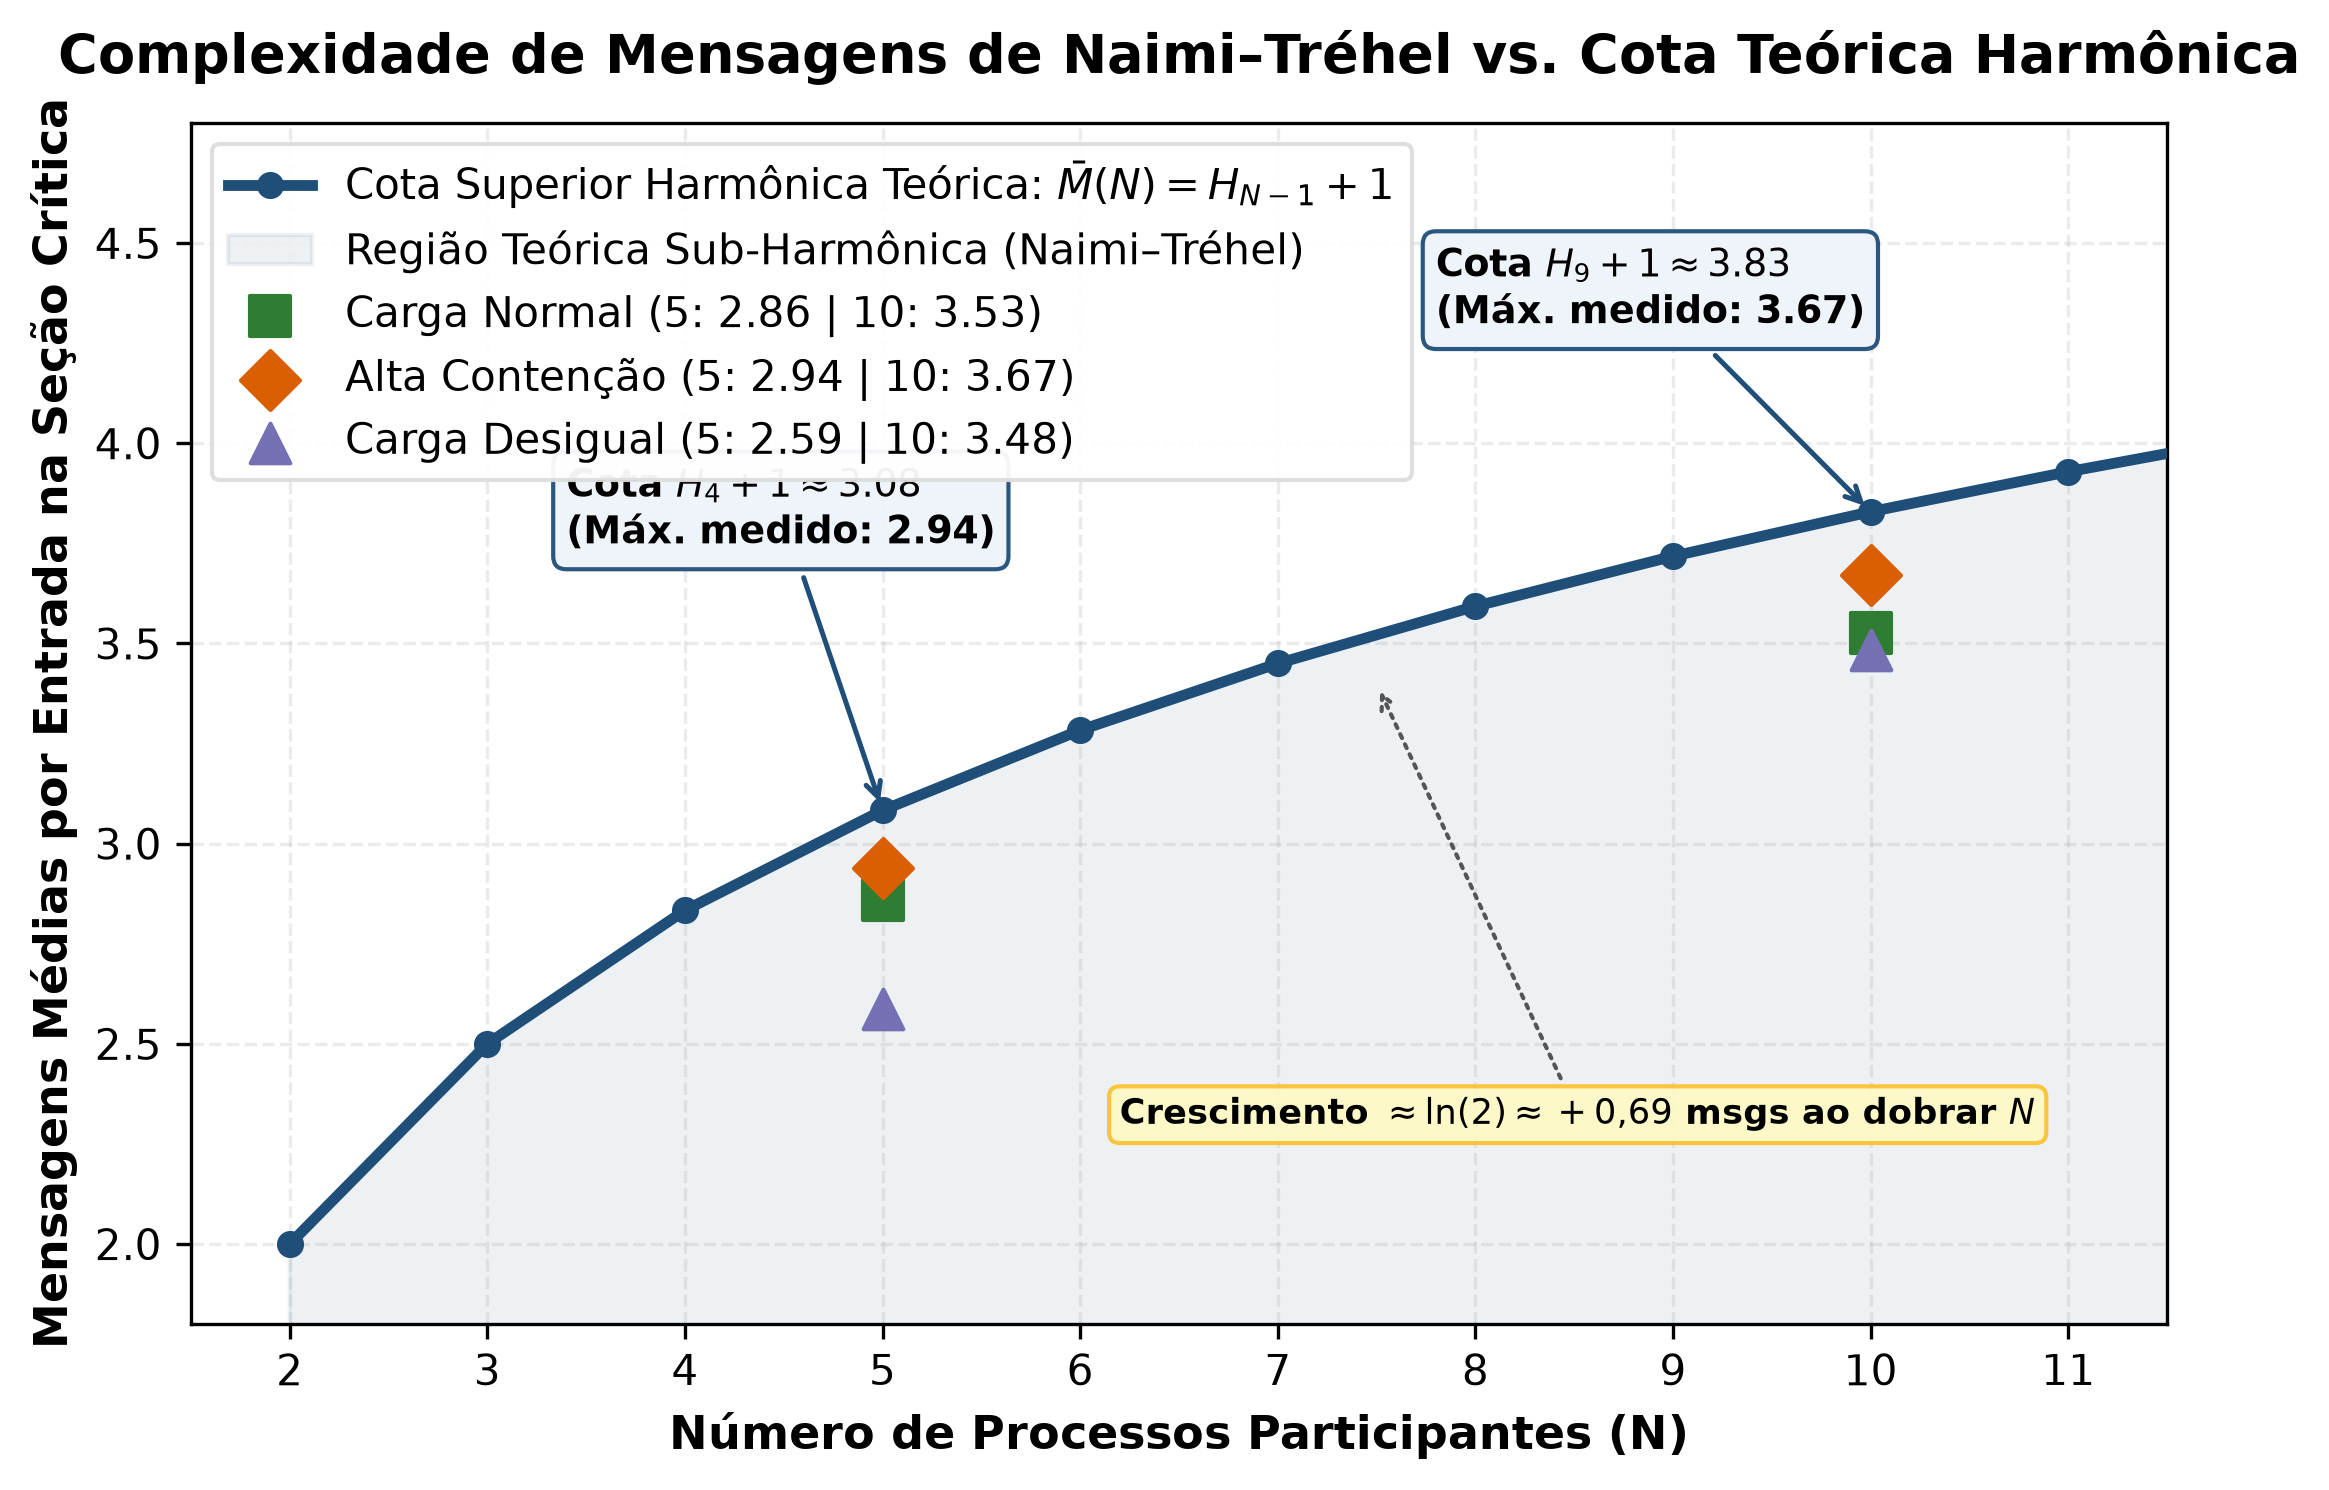
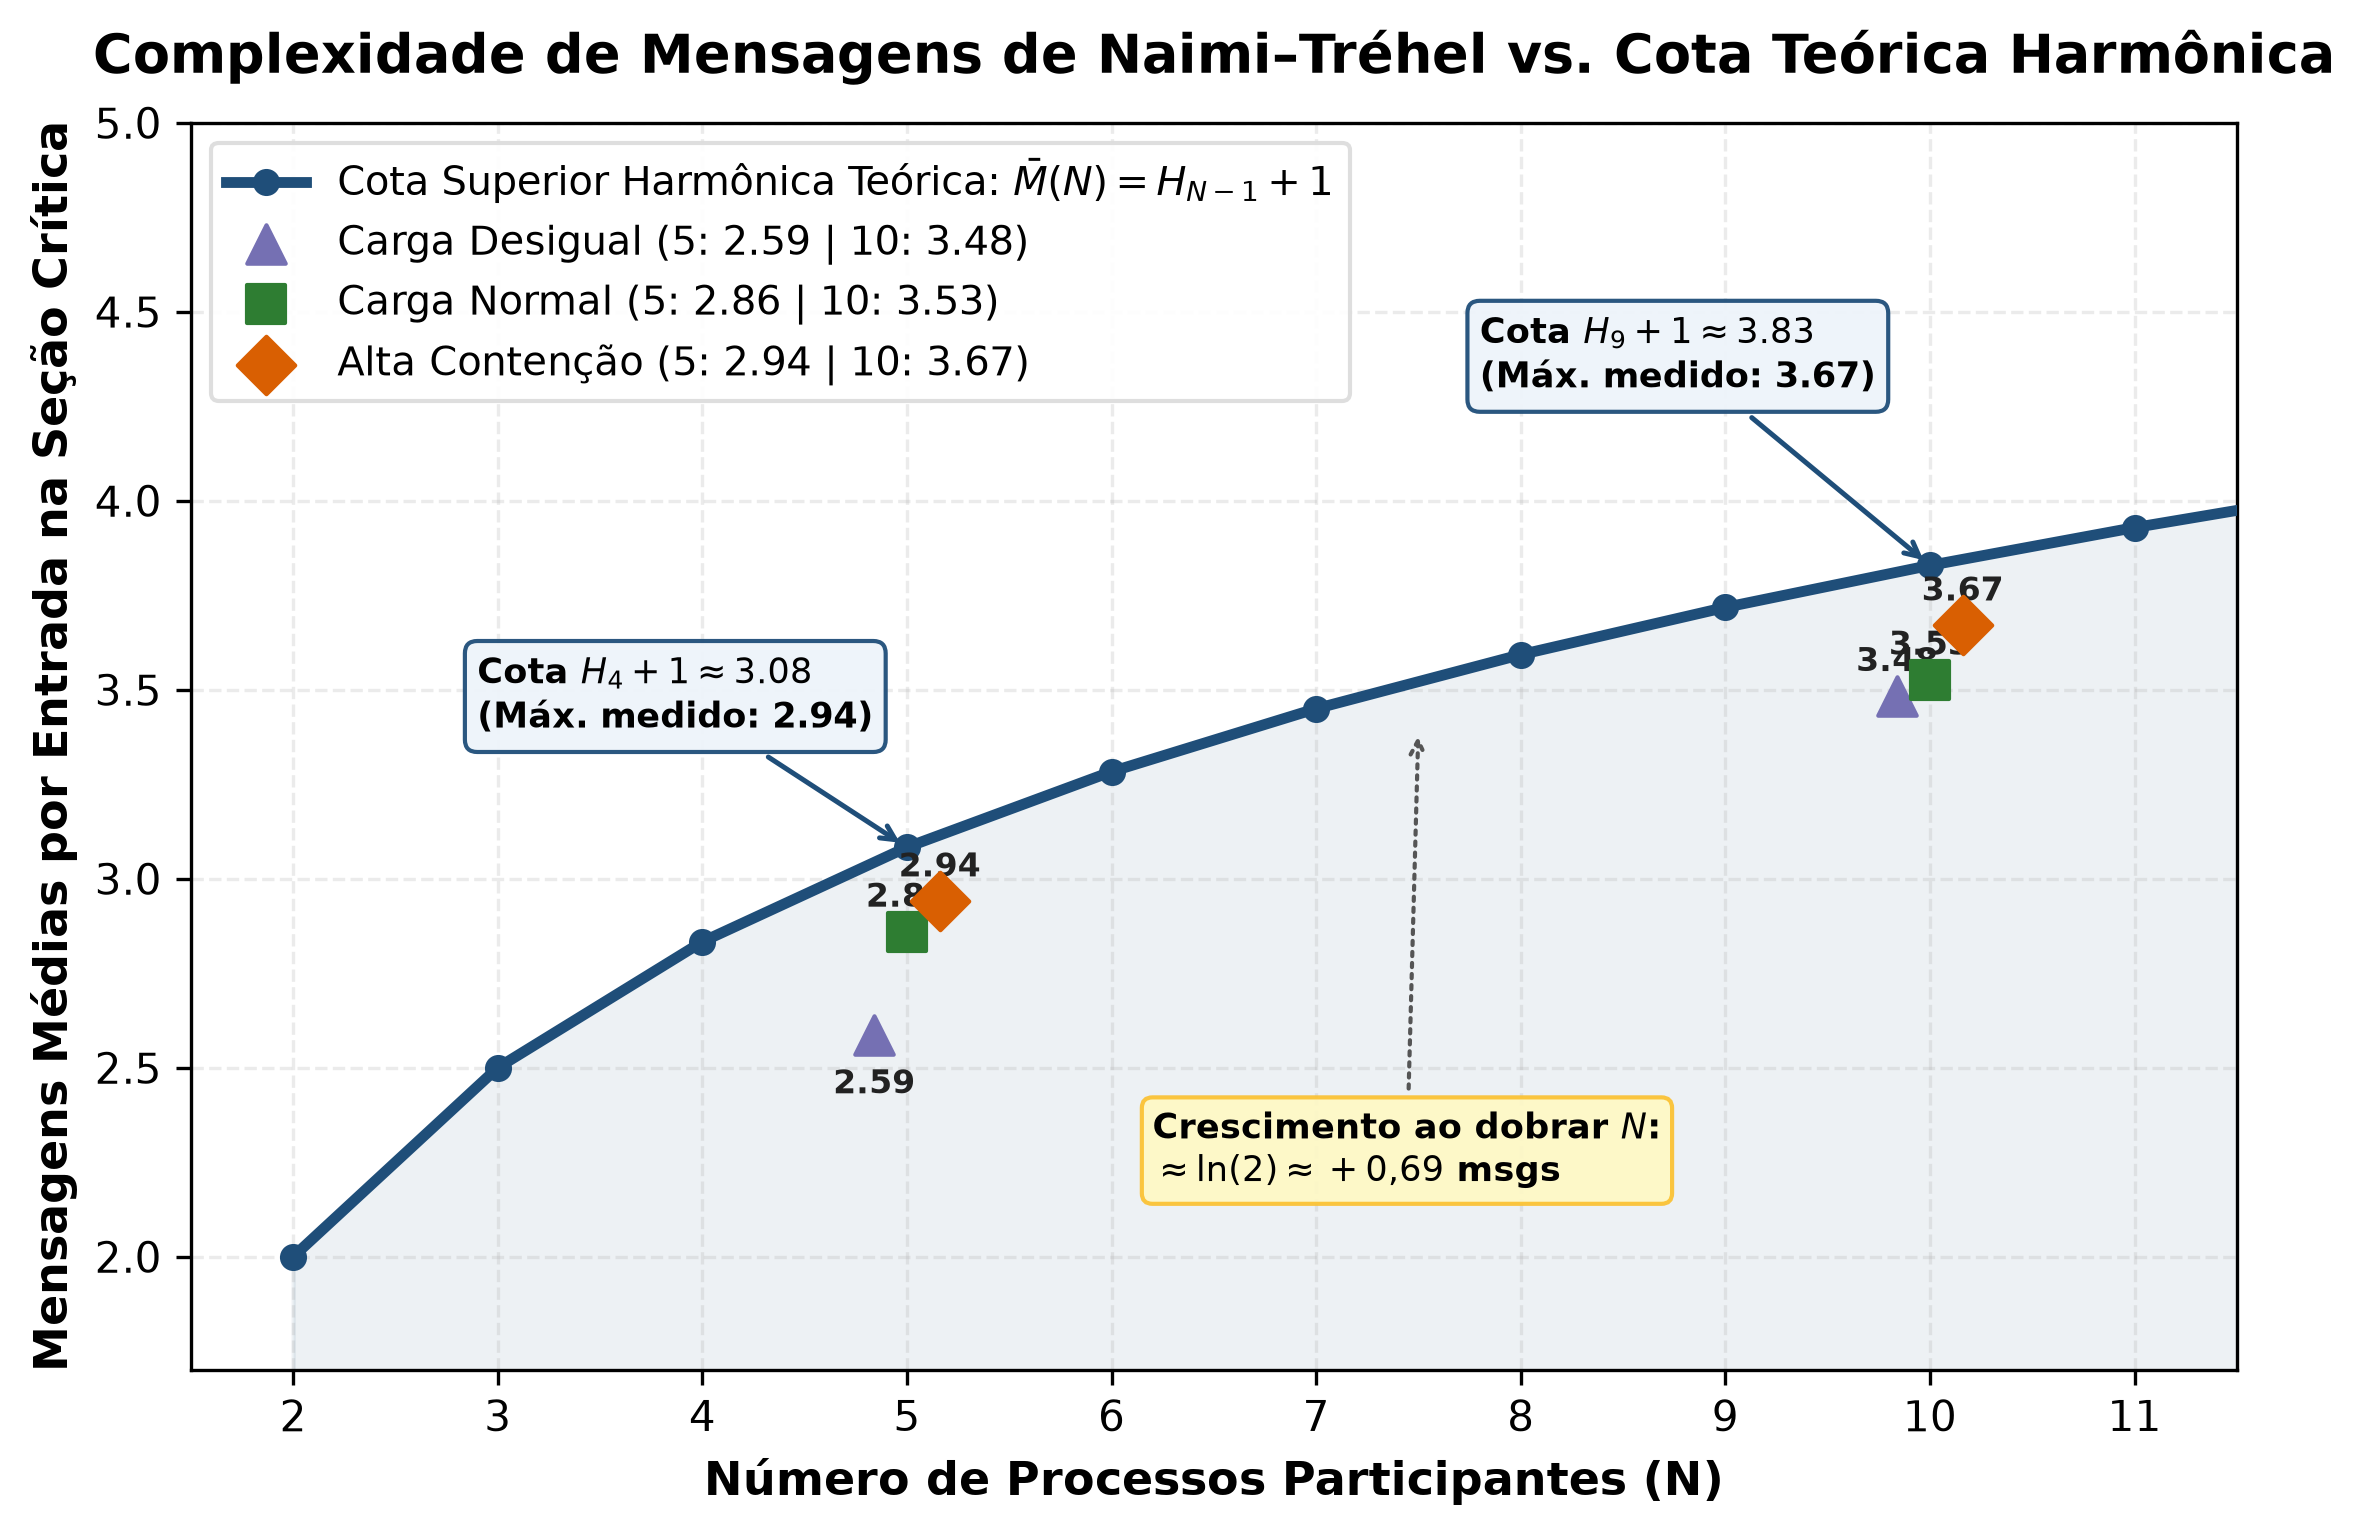
fix(charts): eliminate legend and annotation overlaps in plots 1 and 2, add marker jitter and individual labels

diff --git a/results/generate_charts.py b/results/generate_charts.py
@@ -76,7 +76,7 @@ swarm_data = load_averages(SWARM_CSV)
 # GRÁFICO 1: Conformidade com a Complexidade Teórica O(log N) de Naimi-Tréhel
 # ==============================================================================
 def plot_complexity():
-    fig, ax = plt.subplots(figsize=(8.5, 5.2))
+    fig, ax = plt.subplots(figsize=(8.8, 5.4))
 
     # Curva teórica Naimi-Tréhel: H_{N-1} + 1
     nodes_range = np.arange(2, 13)
@@ -87,8 +87,7 @@ def plot_complexity():
             label=r"Cota Superior Harmônica Teórica: $\bar{M}(N) = H_{N-1} + 1$", zorder=3)
 
     # Área sombreada delimitando a região sub-harmônica válida
-    ax.fill_between(nodes_range, 0, harmonic_upper, color="#1f4e79", alpha=0.08,
-                    label="Região Teórica Sub-Harmônica (Naimi–Tréhel)")
+    ax.fill_between(nodes_range, 0, harmonic_upper, color="#1f4e79", alpha=0.08, zorder=1)
 
     # Dados medidos locais (Médias das 3 repetições)
     # 5 nós
@@ -101,33 +100,46 @@ def plot_complexity():
     mpe_10_high = local_data[("high_contention", 10)]["avg_mpe"]
     mpe_10_uneq = local_data[("unequal_load", 10)]["avg_mpe"]
 
-    # Scatter points para cada cenário com marcadores e cores acadêmicas distintas
-    ax.scatter([5, 10], [mpe_5_norm, mpe_10_norm], color="#2e7d32", s=90, marker="s",
-               label=f"Carga Normal (5: {mpe_5_norm:.2f} | 10: {mpe_10_norm:.2f})", zorder=5)
-    ax.scatter([5, 10], [mpe_5_high, mpe_10_high], color="#d95f02", s=100, marker="D",
-               label=f"Alta Contenção (5: {mpe_5_high:.2f} | 10: {mpe_10_high:.2f})", zorder=5)
-    ax.scatter([5, 10], [mpe_5_uneq, mpe_10_uneq], color="#7570b3", s=90, marker="^",
-               label=f"Carga Desigual (5: {mpe_5_uneq:.2f} | 10: {mpe_10_uneq:.2f})", zorder=5)
+    # Deslocamento horizontal simétrico (jitter) para evitar sobreposição entre marcadores próximos
+    dx = {"uneq": -0.16, "norm": 0.0, "high": 0.16}
 
-    # Anotações nas cotas teóricas de 5 e 10 nós
+    ax.scatter(5 + dx["uneq"], mpe_5_uneq, color="#7570b3", s=85, marker="^",
+               label=f"Carga Desigual (5: {mpe_5_uneq:.2f} | 10: {mpe_10_uneq:.2f})", zorder=5)
+    ax.scatter(5 + dx["norm"], mpe_5_norm, color="#2e7d32", s=85, marker="s",
+               label=f"Carga Normal (5: {mpe_5_norm:.2f} | 10: {mpe_10_norm:.2f})", zorder=5)
+    ax.scatter(5 + dx["high"], mpe_5_high, color="#d95f02", s=95, marker="D",
+               label=f"Alta Contenção (5: {mpe_5_high:.2f} | 10: {mpe_10_high:.2f})", zorder=5)
+
+    ax.scatter(10 + dx["uneq"], mpe_10_uneq, color="#7570b3", s=85, marker="^", zorder=5)
+    ax.scatter(10 + dx["norm"], mpe_10_norm, color="#2e7d32", s=85, marker="s", zorder=5)
+    ax.scatter(10 + dx["high"], mpe_10_high, color="#d95f02", s=95, marker="D", zorder=5)
+
+    # Rótulo numérico individual junto a cada marcador para máxima clareza
+    for xv, yv in [(5 + dx["uneq"], mpe_5_uneq), (5 + dx["norm"], mpe_5_norm), (5 + dx["high"], mpe_5_high),
+                   (10 + dx["uneq"], mpe_10_uneq), (10 + dx["norm"], mpe_10_norm), (10 + dx["high"], mpe_10_high)]:
+        ax.annotate(f"{yv:.2f}", (xv, yv), textcoords="offset points",
+                    xytext=(0, -14 if yv < 2.7 else 6),
+                    ha="center", fontsize=8, fontweight="bold", color="#222")
+
+    # Anotações nas cotas teóricas de 5 e 10 nós posicionadas sem colisões
     h4 = sum(1.0 / i for i in range(1, 5)) + 1.0  # 3.083
     h9 = sum(1.0 / i for i in range(1, 10)) + 1.0 # 3.829
 
     ax.annotate(f"Cota $H_4 + 1 \\approx {h4:.2f}$\n(Máx. medido: {max(mpe_5_norm, mpe_5_high, mpe_5_uneq):.2f})",
-                xy=(5, h4), xytext=(3.4, 3.75),
+                xy=(5, h4), xytext=(2.9, 3.4),
                 arrowprops=dict(arrowstyle="->", color="#1f4e79", lw=1.2),
                 bbox=dict(boxstyle="round,pad=0.35", fc="#eef4fa", ec="#1f4e79", alpha=0.95),
-                fontsize=9, fontweight="bold")
+                fontsize=8.5, fontweight="bold")
 
     ax.annotate(f"Cota $H_9 + 1 \\approx {h9:.2f}$\n(Máx. medido: {max(mpe_10_norm, mpe_10_high, mpe_10_uneq):.2f})",
                 xy=(10, h9), xytext=(7.8, 4.3),
                 arrowprops=dict(arrowstyle="->", color="#1f4e79", lw=1.2),
                 bbox=dict(boxstyle="round,pad=0.35", fc="#eef4fa", ec="#1f4e79", alpha=0.95),
-                fontsize=9, fontweight="bold")
+                fontsize=8.5, fontweight="bold")
 
-    # Destaque da taxa de crescimento logarítmica (ln(2) ≈ 0.69)
-    ax.annotate(r"Crescimento $\approx \ln(2) \approx +0{,}69$ msgs ao dobrar $N$",
-                xy=(7.5, 3.4), xytext=(6.2, 2.3),
+    # Destaque compacto da taxa de crescimento logarítmica (ln(2) ≈ 0.69)
+    ax.annotate(r"Crescimento ao dobrar $N$:" + "\n" + r"$\approx \ln(2) \approx +0{,}69$ msgs",
+                xy=(7.5, 3.4), xytext=(6.2, 2.2),
                 arrowprops=dict(arrowstyle="->", color="#555", lw=1.0, ls=":"),
                 bbox=dict(boxstyle="round,pad=0.3", fc="#fff9c4", ec="#fbc02d", alpha=0.9),
                 fontsize=8.5, fontweight="bold")
@@ -137,8 +149,8 @@ def plot_complexity():
     ax.set_ylabel("Mensagens Médias por Entrada na Seção Crítica")
     ax.set_xticks(range(2, 13))
     ax.set_xlim(1.5, 11.5)
-    ax.set_ylim(1.8, 4.8)
-    ax.legend(loc="upper left", framealpha=0.95, edgecolor="#ddd")
+    ax.set_ylim(1.7, 5.0)
+    ax.legend(loc="upper left", framealpha=0.95, edgecolor="#ddd", fontsize=9.5)
 
     out_file = CHARTS_DIR / "01_complexidade_mensagens.png"
     plt.savefig(out_file)
@@ -165,10 +177,10 @@ def plot_wait_fifo():
     width = 0.30
 
     rects1 = ax.bar(x - width/2, [theory_5, theory_10], width,
-                    label=r"Modelo Analítico FIFO: $(N-1) \times \mu_{CS}$ ($\mu_{CS}=600$ ms)",
+                    label=r"Modelo Analítico FIFO: $(N-1) \times \mu_{CS}$",
                     color="#90a4ae", edgecolor="#37474f", hatch="//")
     rects2 = ax.bar(x + width/2, [loc_5, loc_10], width,
-                    label="Mediana Medida (Alta Contenção)",
+                    label="Tempo Mediano Medido (Alta Contenção)",
                     color="#1f4e79", edgecolor="#0d233a")
 
     # Valores acima das barras
@@ -200,8 +212,8 @@ def plot_wait_fifo():
     ax.set_ylabel("Tempo de Espera Mediano (ms)")
     ax.set_xticks(x)
     ax.set_xticklabels(labels, fontweight="bold", fontsize=11)
-    ax.set_ylim(0, 6600)
-    ax.legend(loc="upper left", framealpha=0.95, edgecolor="#ddd")
+    ax.set_ylim(0, 7200)
+    ax.legend(loc="upper left", framealpha=0.95, edgecolor="#ddd", fontsize=9.5)
 
     out_file = CHARTS_DIR / "02_espera_fila_fifo.png"
     plt.savefig(out_file)
